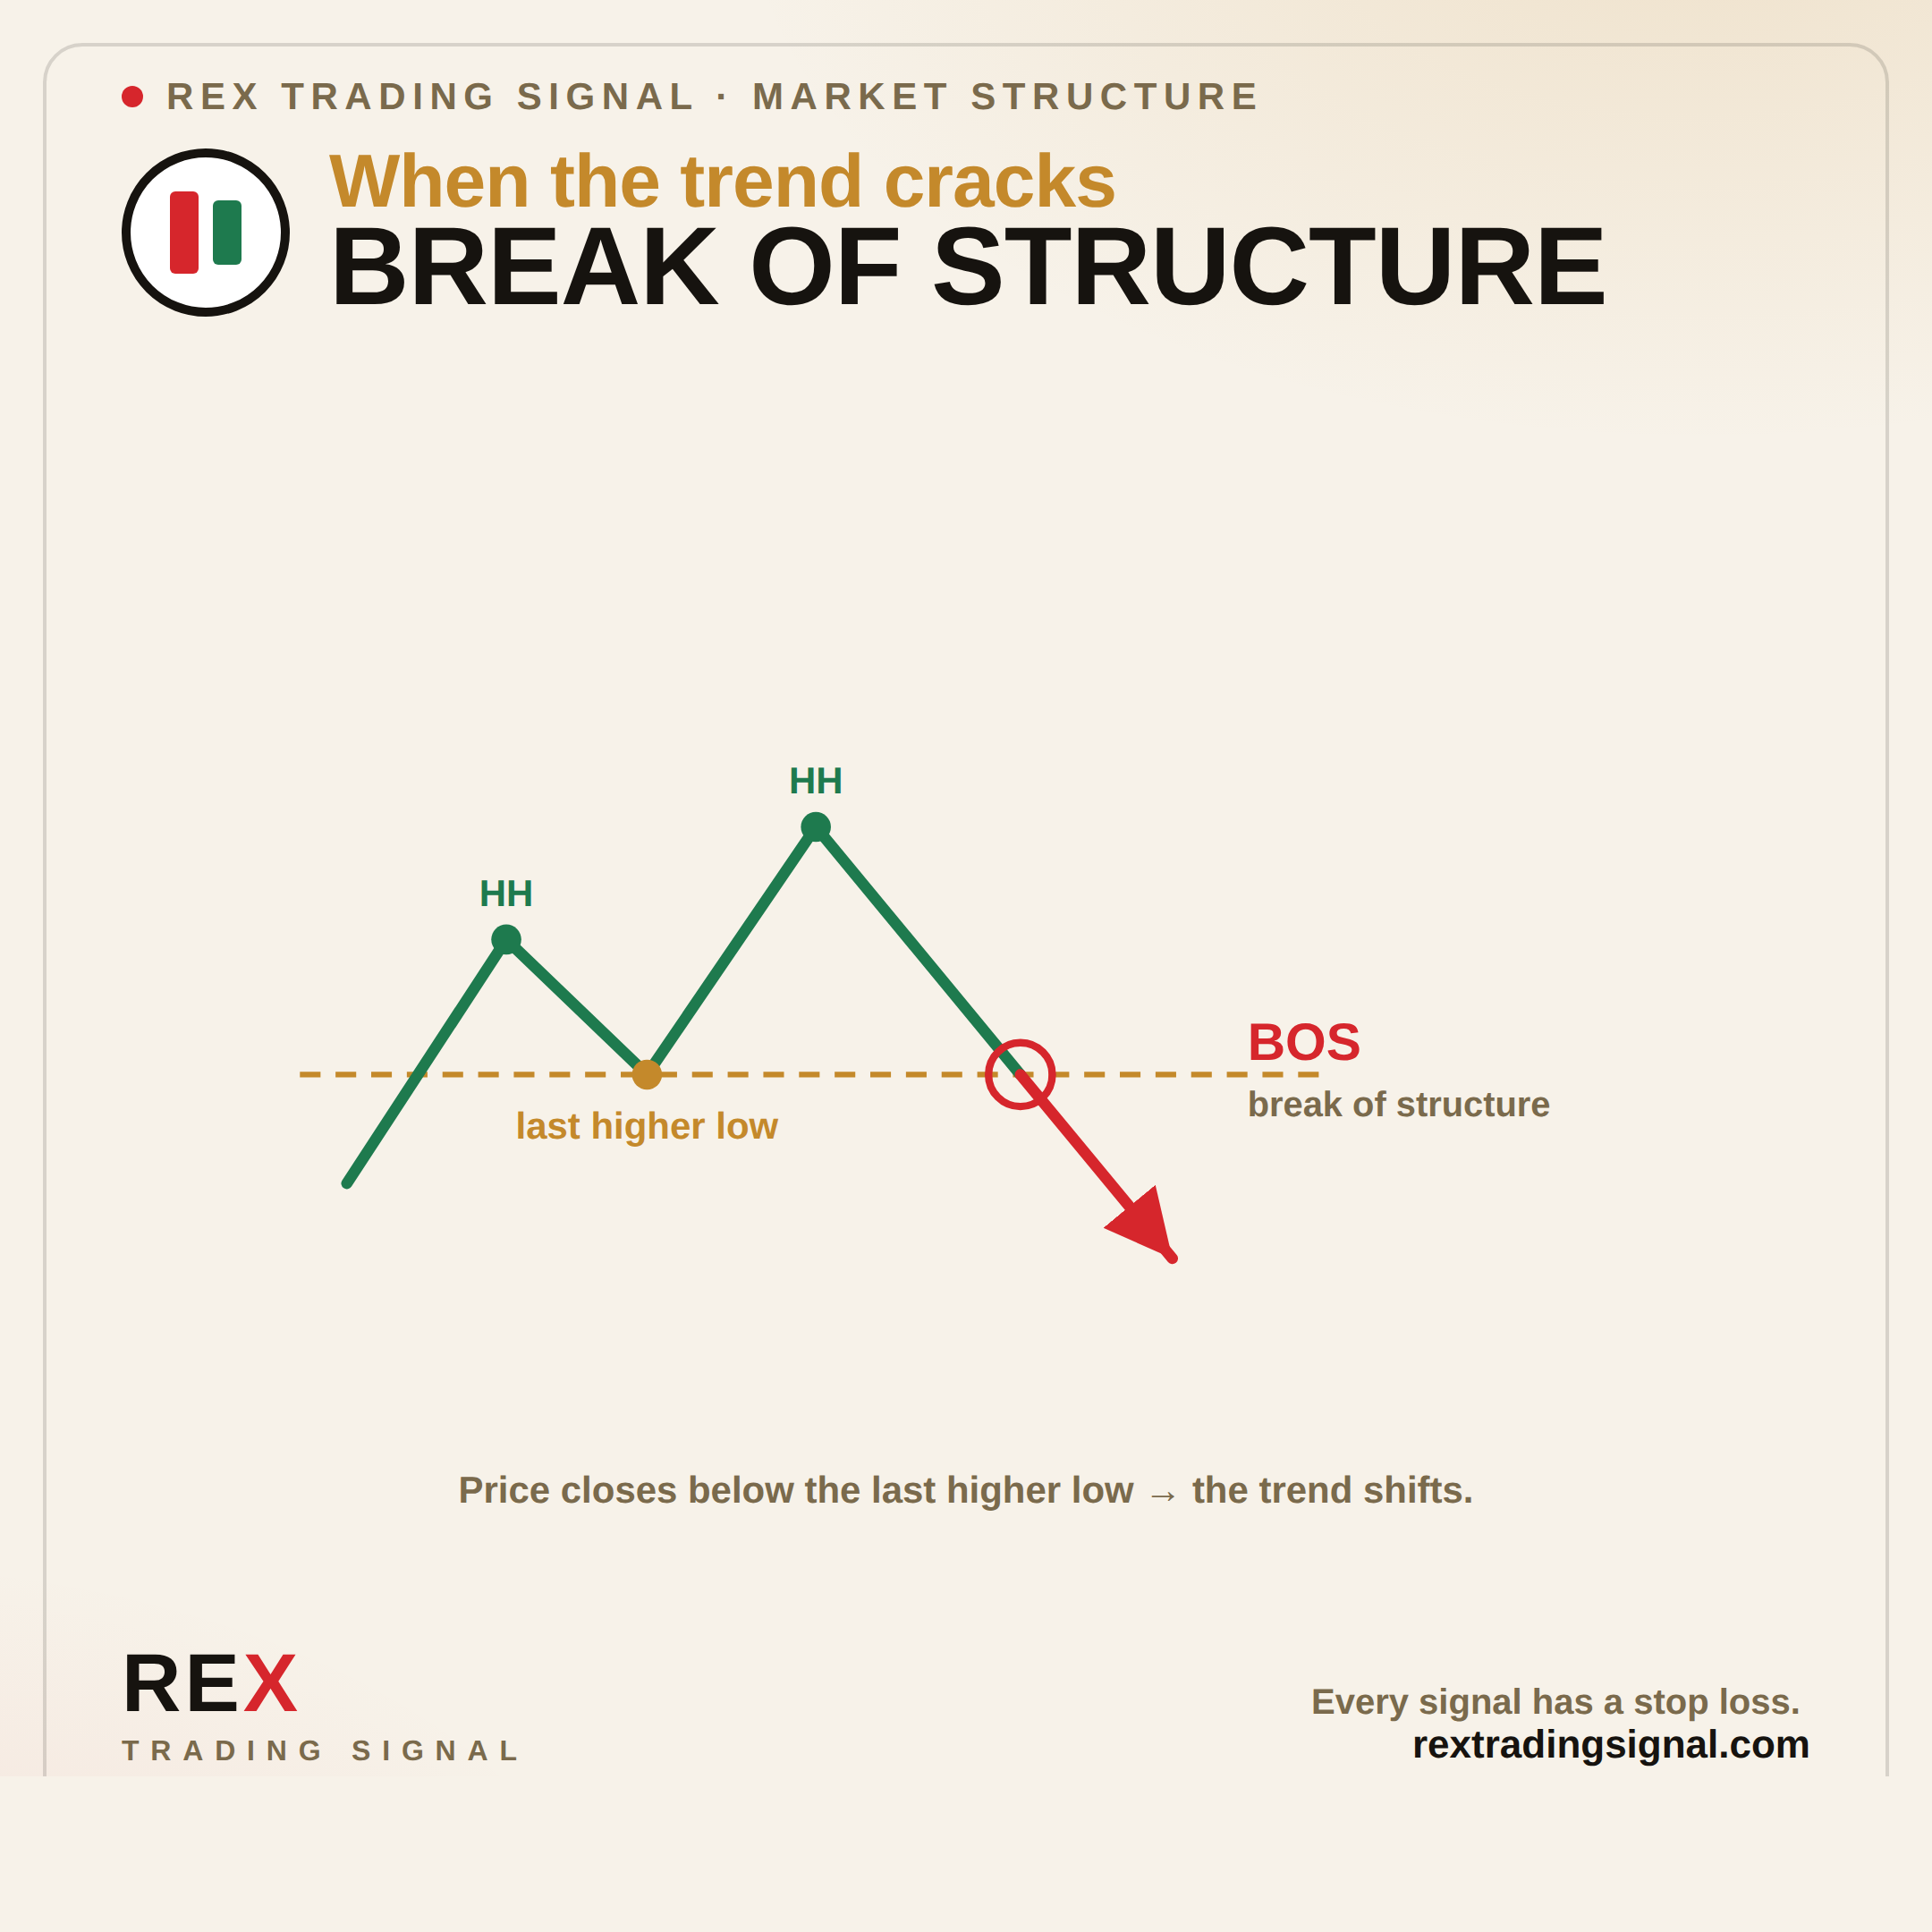
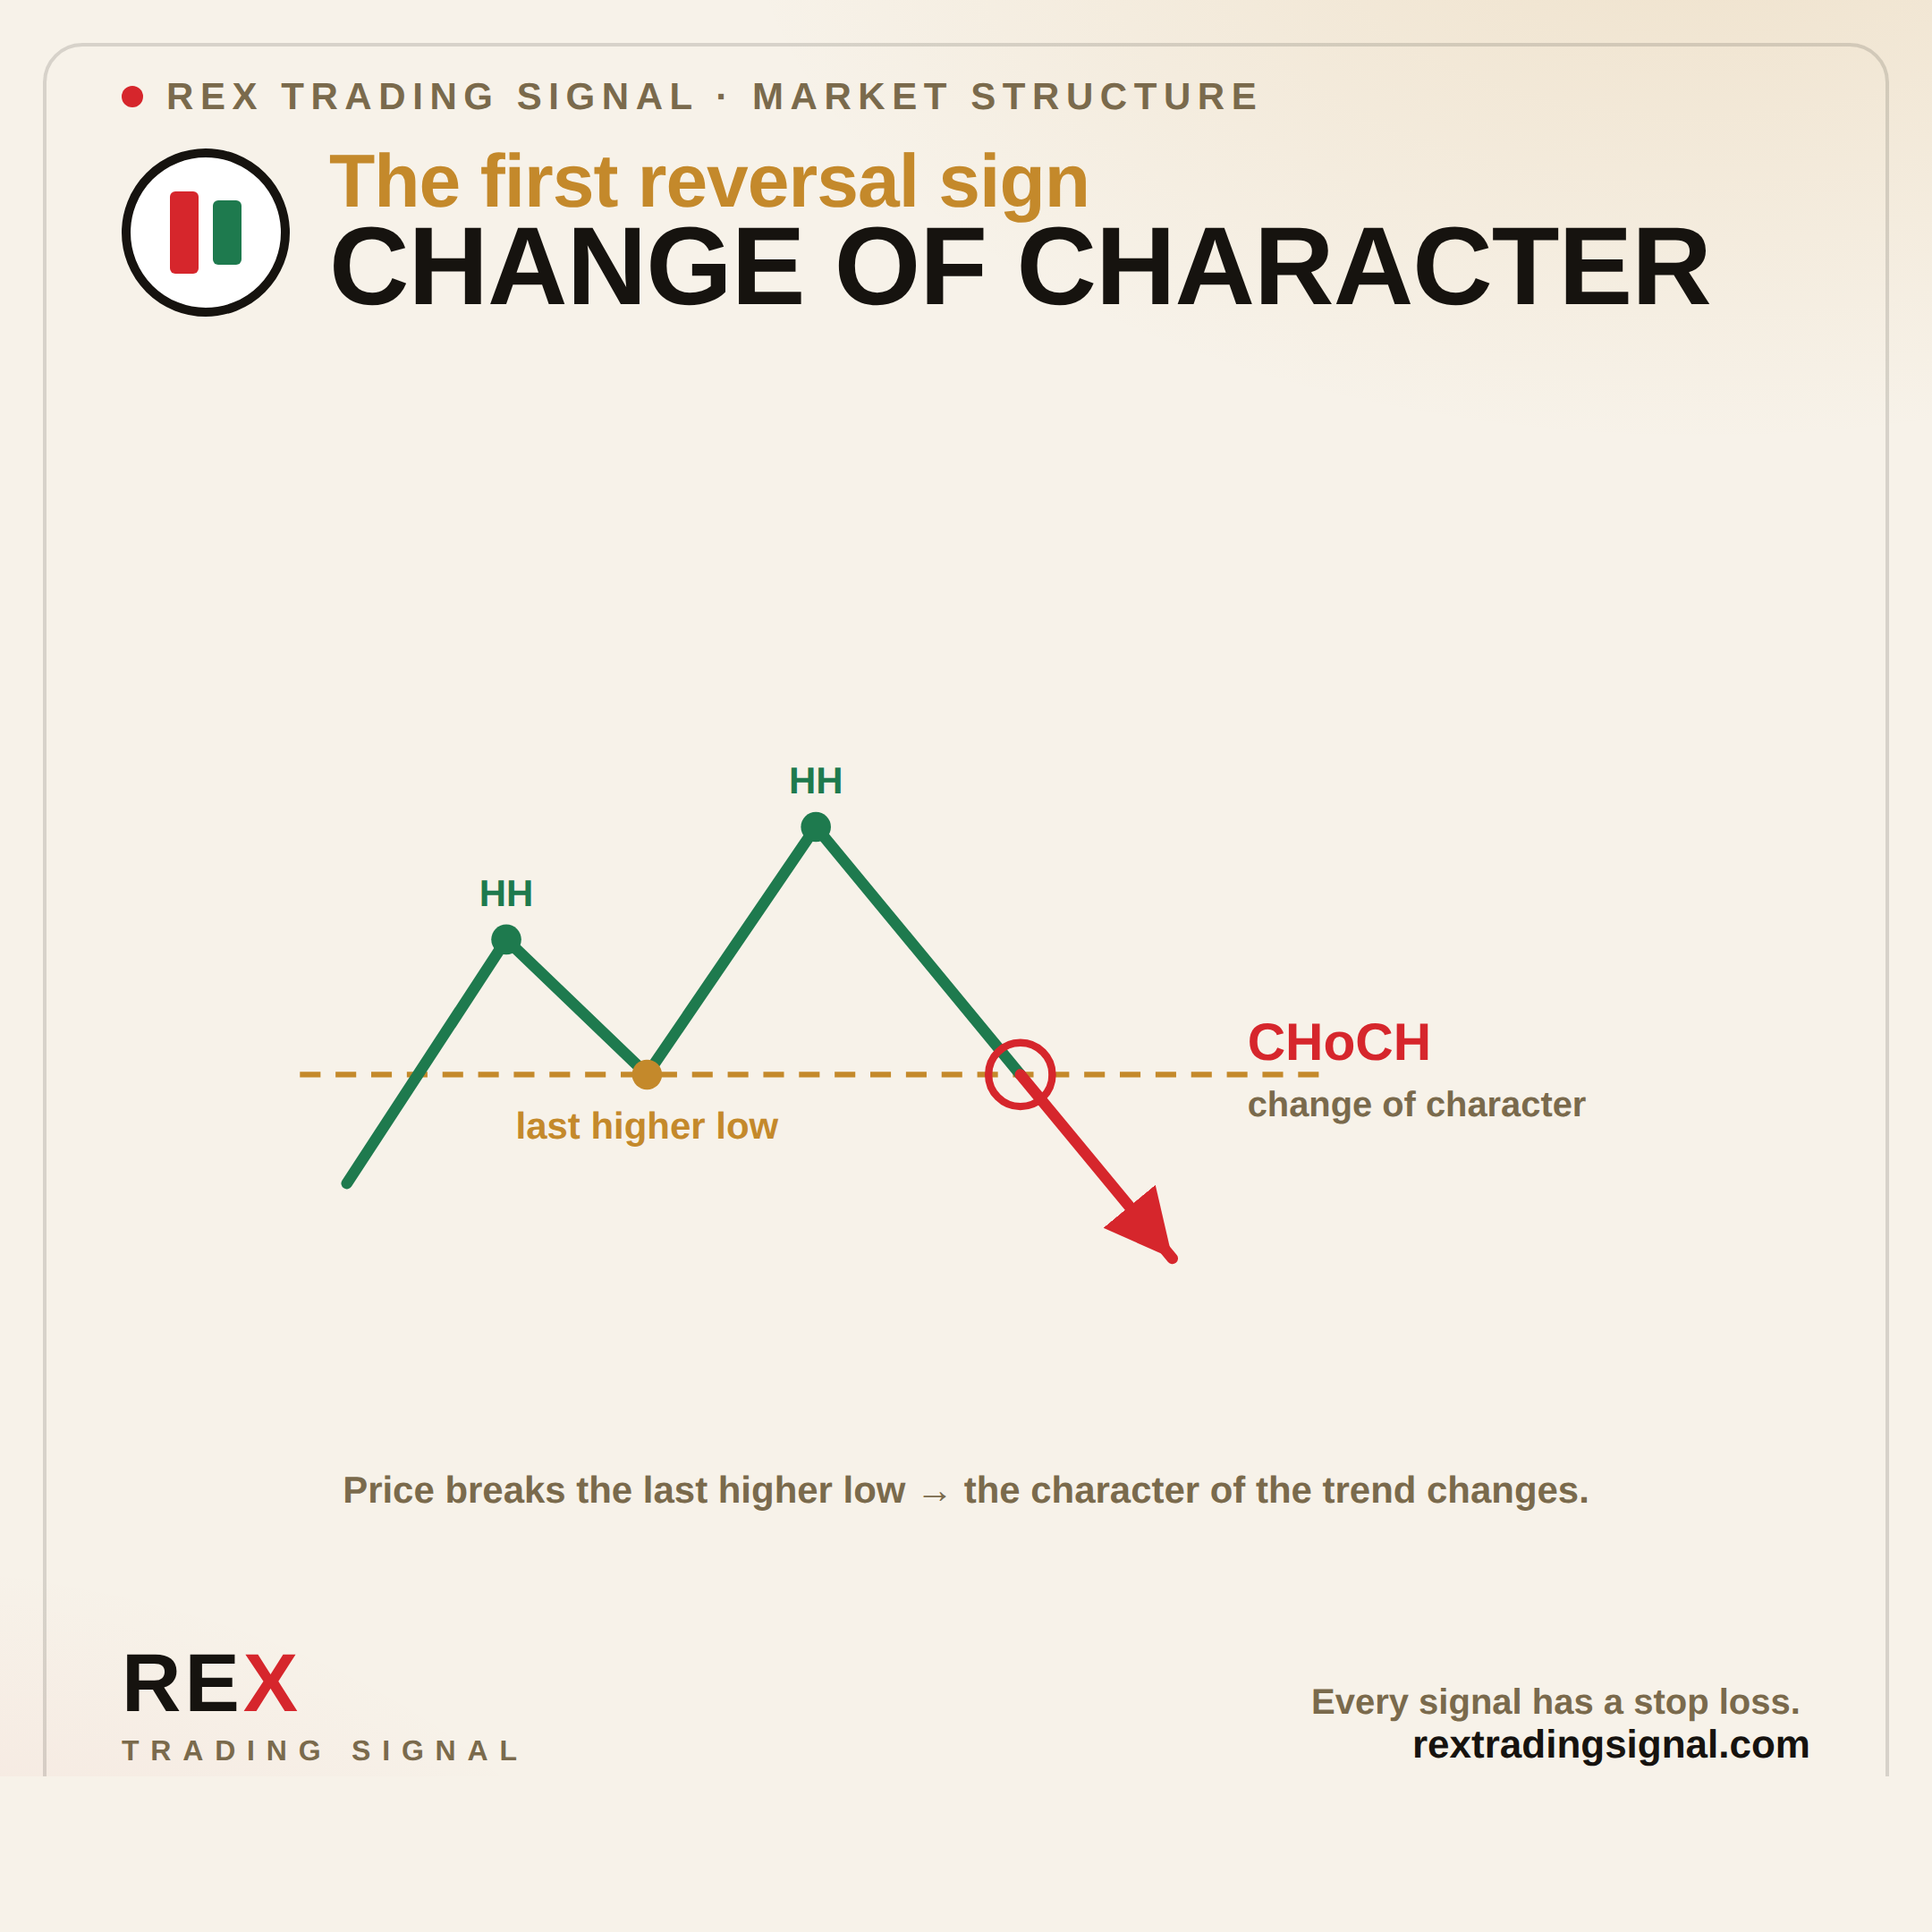
Fix accuracy: infographic #11 is CHoCH, not BOS
Breaking below the last higher low in an uptrend is a Change of Character
(reversal signal), not a Break of Structure (which is trend continuation).
Relabels the graphic + caption and adds a BOS-vs-CHoCH clarifier. Updates
portrait/square PNGs, captions, and the scheduled post text.

Changed region(s): [[0.1551, 0.062, 0.8995, 0.1551], [0.1861, 0.7444, 0.8065, 0.7755], [0.6514, 0.5273, 0.8065, 0.5894]]

diff --git a/facebook/infographics/src/generate.py b/facebook/infographics/src/generate.py
@@ -234,10 +234,10 @@ s+= dot(370,240,GREEN)+T(370,222,20,"HH",fill=GREEN)
 s+= dot(280,372,GOLD)
 # break marker
 s+= '<circle cx="479" cy="372" r="17" fill="none" stroke="%s" stroke-width="4"/>'%RED
-s+= T(600,364,28,"BOS","start",900,RED)
-s+= T(600,394,19,"break of structure","start",700,BROWN)
-s+= T(450,600,20,"Price closes below the last higher low &#8594; the trend shifts.",fill=BROWN)
-pages.append(page("rex_11_bos","REX TRADING SIGNAL &middot; MARKET STRUCTURE","When the trend cracks","Break of Structure",s,vbh=640))
+s+= T(600,364,28,"CHoCH","start",900,RED)
+s+= T(600,394,19,"change of character","start",700,BROWN)
+s+= T(450,600,20,"Price breaks the last higher low &#8594; the character of the trend changes.",fill=BROWN)
+pages.append(page("rex_11_bos","REX TRADING SIGNAL &middot; MARKET STRUCTURE","The first reversal sign","Change of Character",s,vbh=640))
 
 # ---------- 12. THE 3 RULES ----------
 rules=[("01","Every signal has a stop loss","you decide what you'll lose before profit"),

diff --git a/facebook/infographics/src/generate_square.py b/facebook/infographics/src/generate_square.py
@@ -235,10 +235,10 @@ s+= dot(370,240,GREEN)+T(370,222,20,"HH",fill=GREEN)
 s+= dot(280,372,GOLD)
 # break marker
 s+= '<circle cx="479" cy="372" r="17" fill="none" stroke="%s" stroke-width="4"/>'%RED
-s+= T(600,364,28,"BOS","start",900,RED)
-s+= T(600,394,19,"break of structure","start",700,BROWN)
-s+= T(450,600,20,"Price closes below the last higher low &#8594; the trend shifts.",fill=BROWN)
-pages.append(page("rex_11_bos","REX TRADING SIGNAL &middot; MARKET STRUCTURE","When the trend cracks","Break of Structure",s,vbh=640))
+s+= T(600,364,28,"CHoCH","start",900,RED)
+s+= T(600,394,19,"change of character","start",700,BROWN)
+s+= T(450,600,20,"Price breaks the last higher low &#8594; the character of the trend changes.",fill=BROWN)
+pages.append(page("rex_11_bos","REX TRADING SIGNAL &middot; MARKET STRUCTURE","The first reversal sign","Change of Character",s,vbh=640))
 
 # ---------- 12. THE 3 RULES ----------
 rules=[("01","Every signal has a stop loss","you decide what you'll lose before profit"),

diff --git a/facebook/infographics/captions-en.md b/facebook/infographics/captions-en.md
@@ -154,15 +154,15 @@ Go with the trend and the odds are on your side. Fight it and you're just donati
 #XAUUSD #gold #trend #trendtrading #forex
 ```
 
-### 11. `rex_11_bos.png` — Break of Structure (BOS)
+### 11. `rex_11_bos.png` — Change of Character (CHoCH)
 ```
 When a trend starts to CRACK… ⚠️
 
-Price was rising nicely (higher highs & lows), then it closes BELOW the last higher low → Break of Structure (BOS).
+Price was rising nicely (higher highs & lows), then it closes BELOW the last higher low → Change of Character (CHoCH).
 
 It's an EARLY warning: control is shifting. Don't ignore it.
 
-💬 Type "BOS" if you want a deeper post on this topic!
+💬 Type "CHoCH" if you want a deeper post on this topic!
 
 #XAUUSD #gold #marketstructure #priceaction #forex
 ```

diff --git a/facebook/infographics/post-batches-en.md b/facebook/infographics/post-batches-en.md
@@ -121,7 +121,7 @@ Stop staring at every tiny move. Zoom out and read the map. Three tools + the ru
 
 🏠 Support & Resistance — the floor and ceiling of price
 📈 Trend — higher highs/lows vs lower highs/lows
-⚠️ Break of Structure — the early sign a trend is cracking
+⚠️ Change of Character — the early sign a trend is cracking
 🔒 The 3 rules REX never breaks
 
 👉 Each one explained in the comments 👇
@@ -145,8 +145,8 @@ Downtrend = highs and lows both lower.
 Trade WITH the trend — fighting it is donating money.
 ```
 ```
-⚠️ 3) BREAK OF STRUCTURE (BOS)
-In an uptrend, when price closes BELOW the last higher low → the structure breaks.
+⚠️ 3) CHANGE OF CHARACTER (CHoCH)
+In an uptrend, when price closes BELOW the last higher low → the trend's character changes.
 Early warning that control is shifting. Respect it.
 ```
 ```